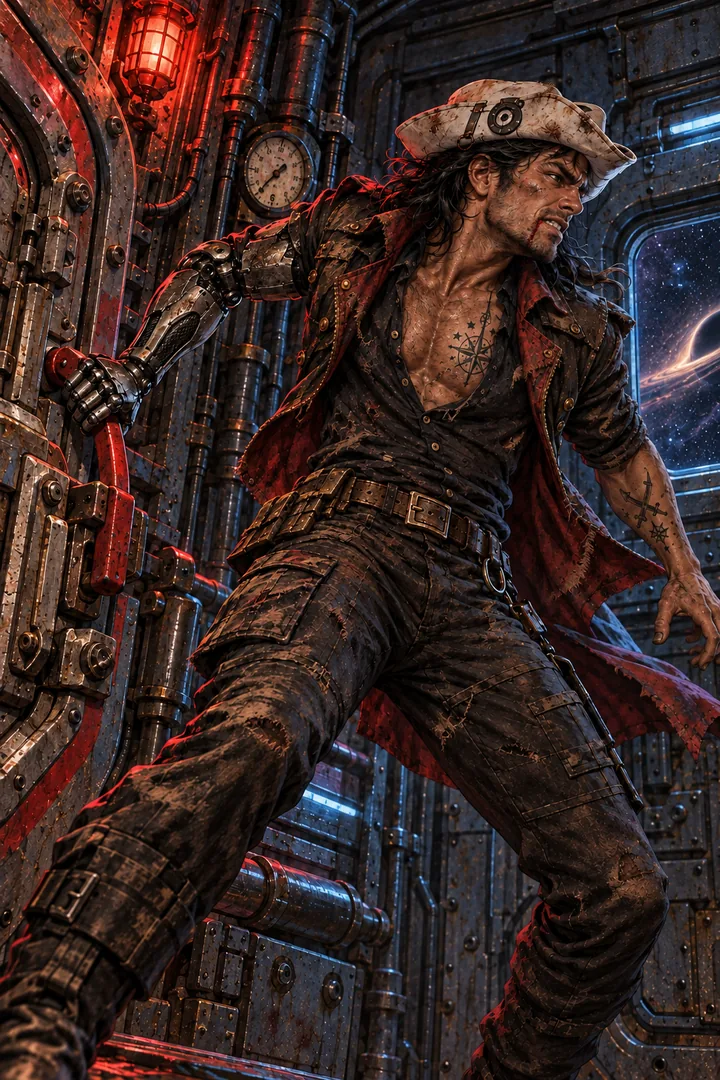
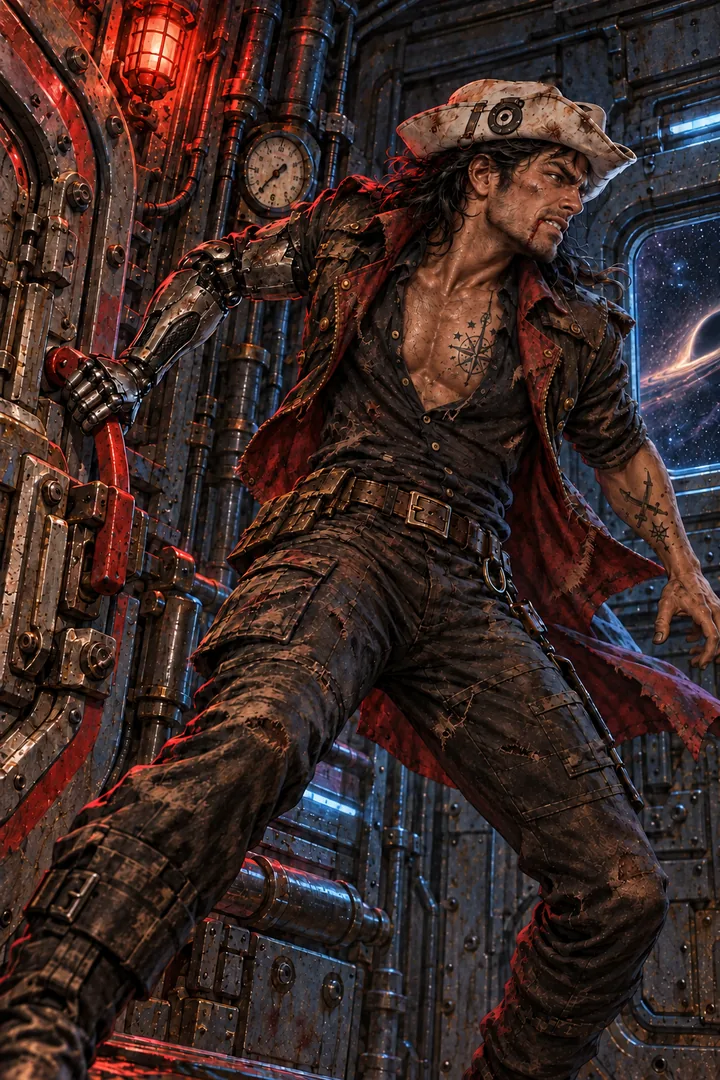
Fotos Spacetheft: S05 Kord, S06 O'reilly, S07 Buni, S08 Vivian, S09 Nastácia, S13 Tzough, S14 Genrir; S01 Jasmey atualizada
Claude-Session: https://claude.ai/code/session_01L9mPCkr9dwR7YDwT2LtkDv

diff --git a/prototipo/images.js b/prototipo/images.js
@@ -63,10 +63,17 @@ window.CARD_IMAGES = {
  "V21": "photos/V21.webp?v=140da95d9e",
  "V22": "photos/V22.webp?v=3b53f8880f",
  "V23": "photos/V23.webp?v=6758fa4528",
- "S01": "photos/S01.webp?v=0389793b1a",
+ "S01": "photos/S01.webp?v=5c25db2e8e",
  "S15": "photos/S15.webp?v=19ca98ba30",
  "S02": "photos/S02.webp?v=c195c3c846",
  "S03": "photos/S03.webp?v=6f34f2f8cc",
  "S04": "photos/S04.webp?v=b6b6914824",
- "J20": "photos/J20.webp?v=45c98b39a8"
+ "J20": "photos/J20.webp?v=45c98b39a8",
+ "S05": "photos/S05.webp?v=7a40d4a07d",
+ "S06": "photos/S06.webp?v=36c09e084a",
+ "S07": "photos/S07.webp?v=faae4634e8",
+ "S08": "photos/S08.webp?v=1634c408dd",
+ "S09": "photos/S09.webp?v=69853f8916",
+ "S13": "photos/S13.webp?v=f72ca2a632",
+ "S14": "photos/S14.webp?v=9eb477127a"
 };

diff --git a/prototipo/index.html b/prototipo/index.html
@@ -36,7 +36,7 @@ noscript { display: block; padding: 24px; }
 <script src="propostas.js?v=6"></script>
 <script src="curtos.js?v=1"></script>
 <script src="data.js?v=6"></script>
-<script src="images.js?v=7"></script>
+<script src="images.js?v=8"></script>
 <script src="audio.js?v=2"></script>
 <script src="especiais.js?v=3"></script>
 <script src="engine.js?v=7"></script>
